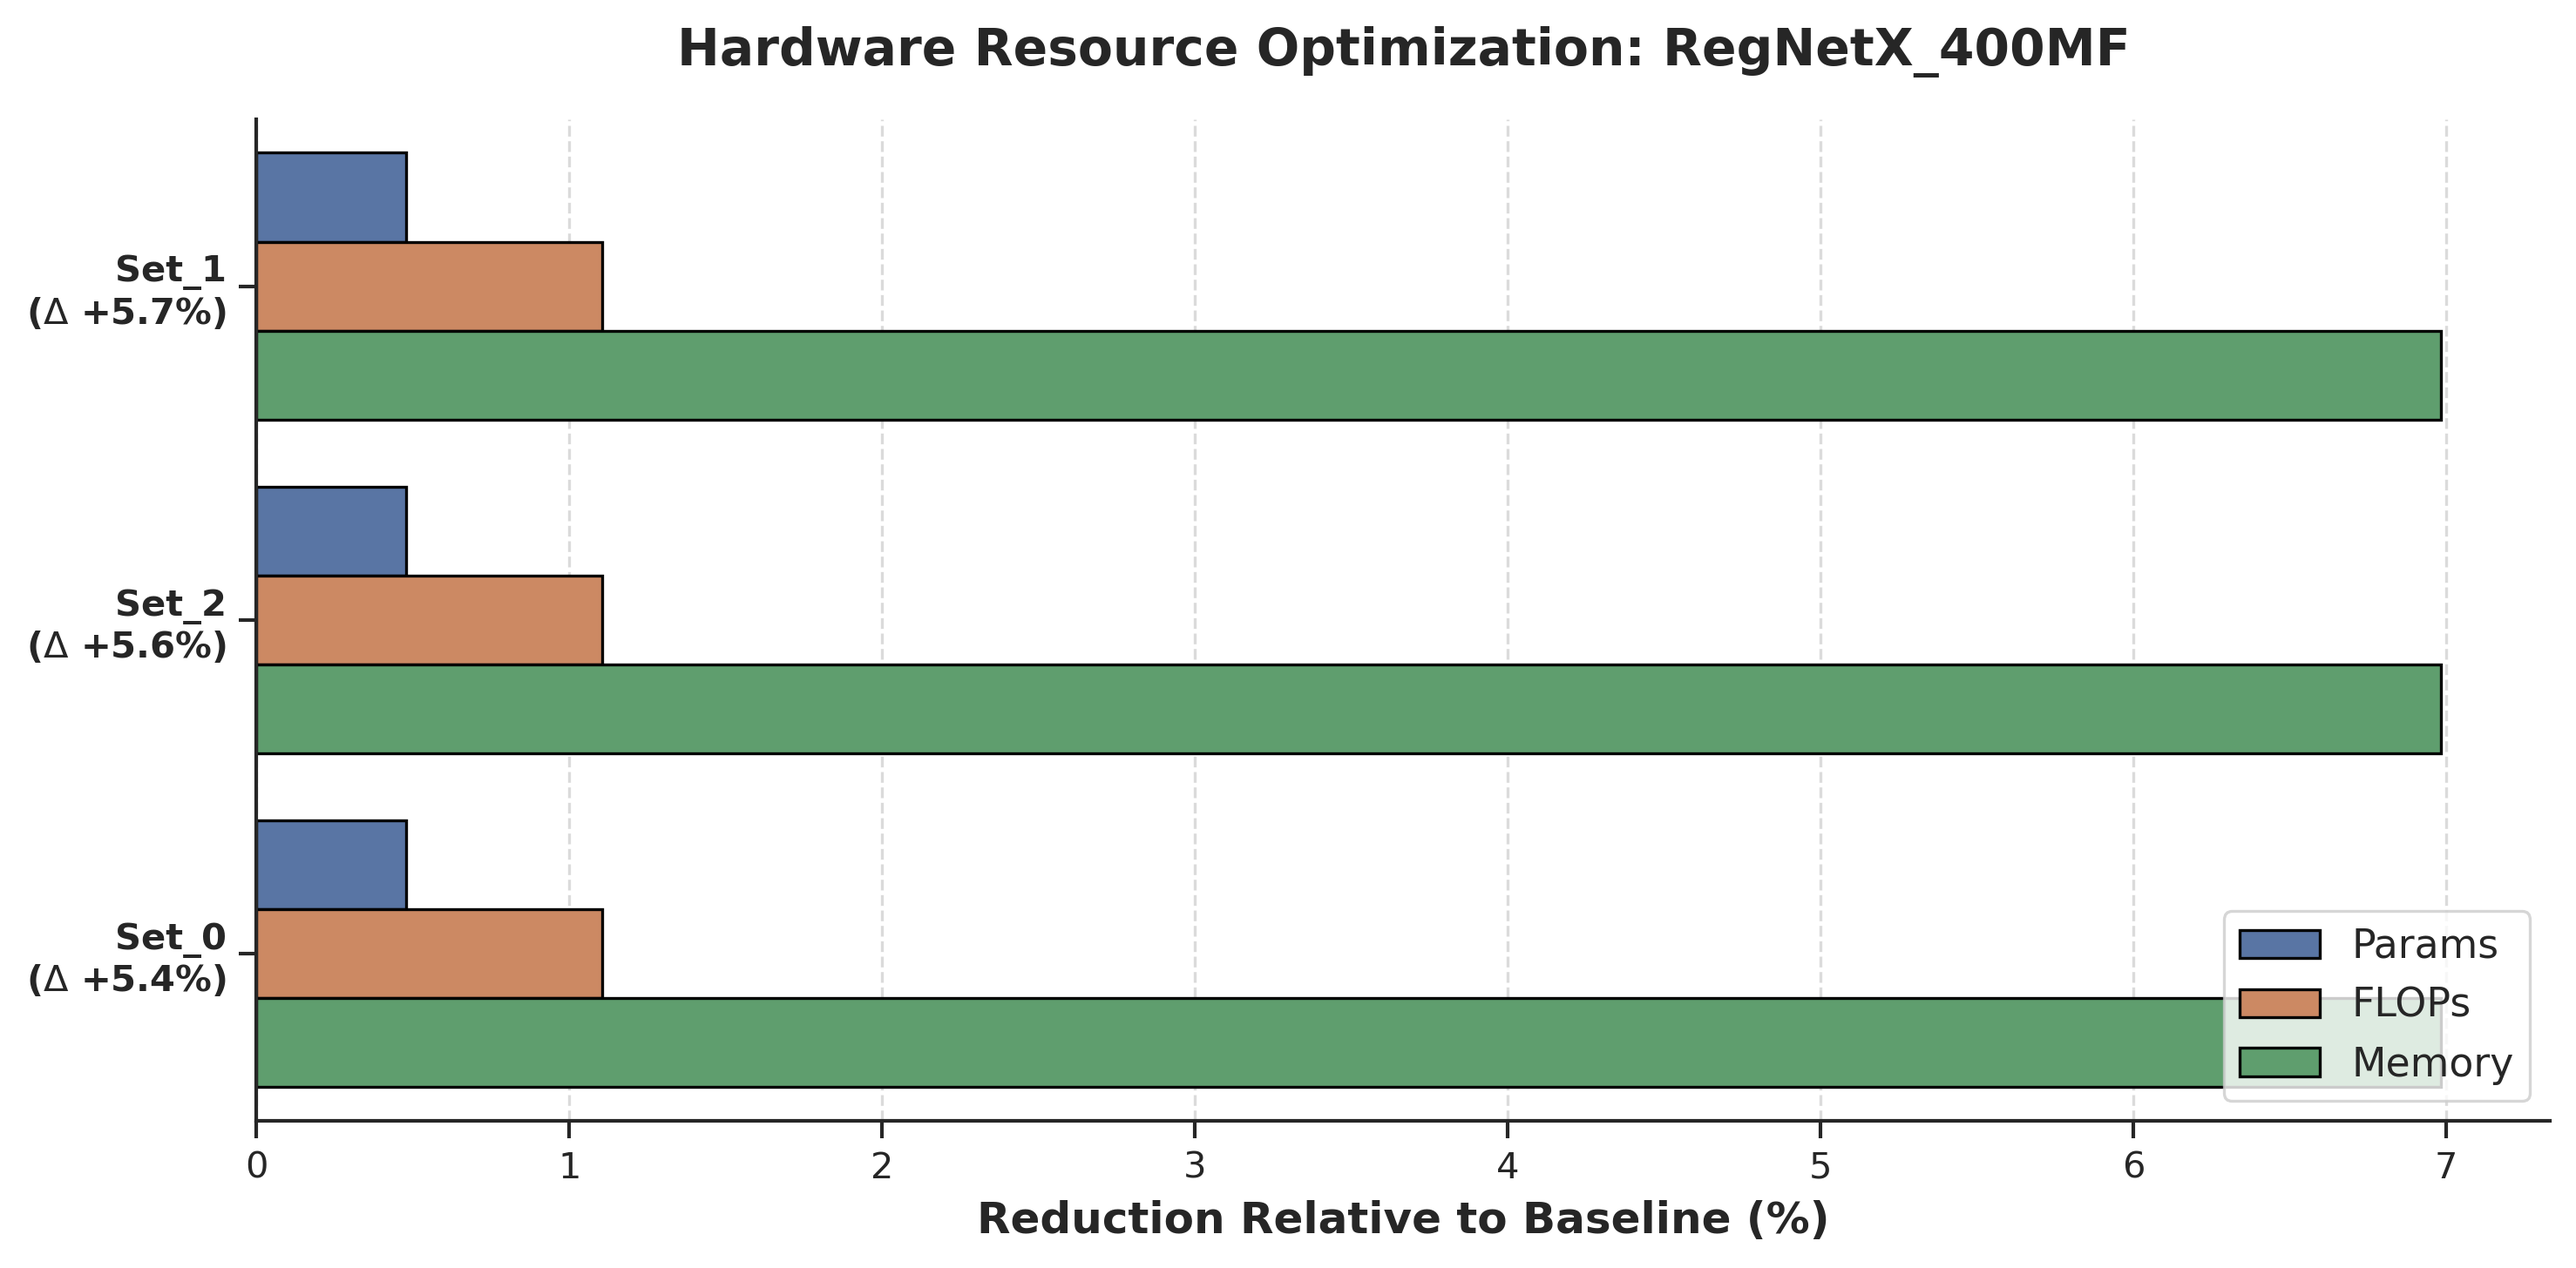
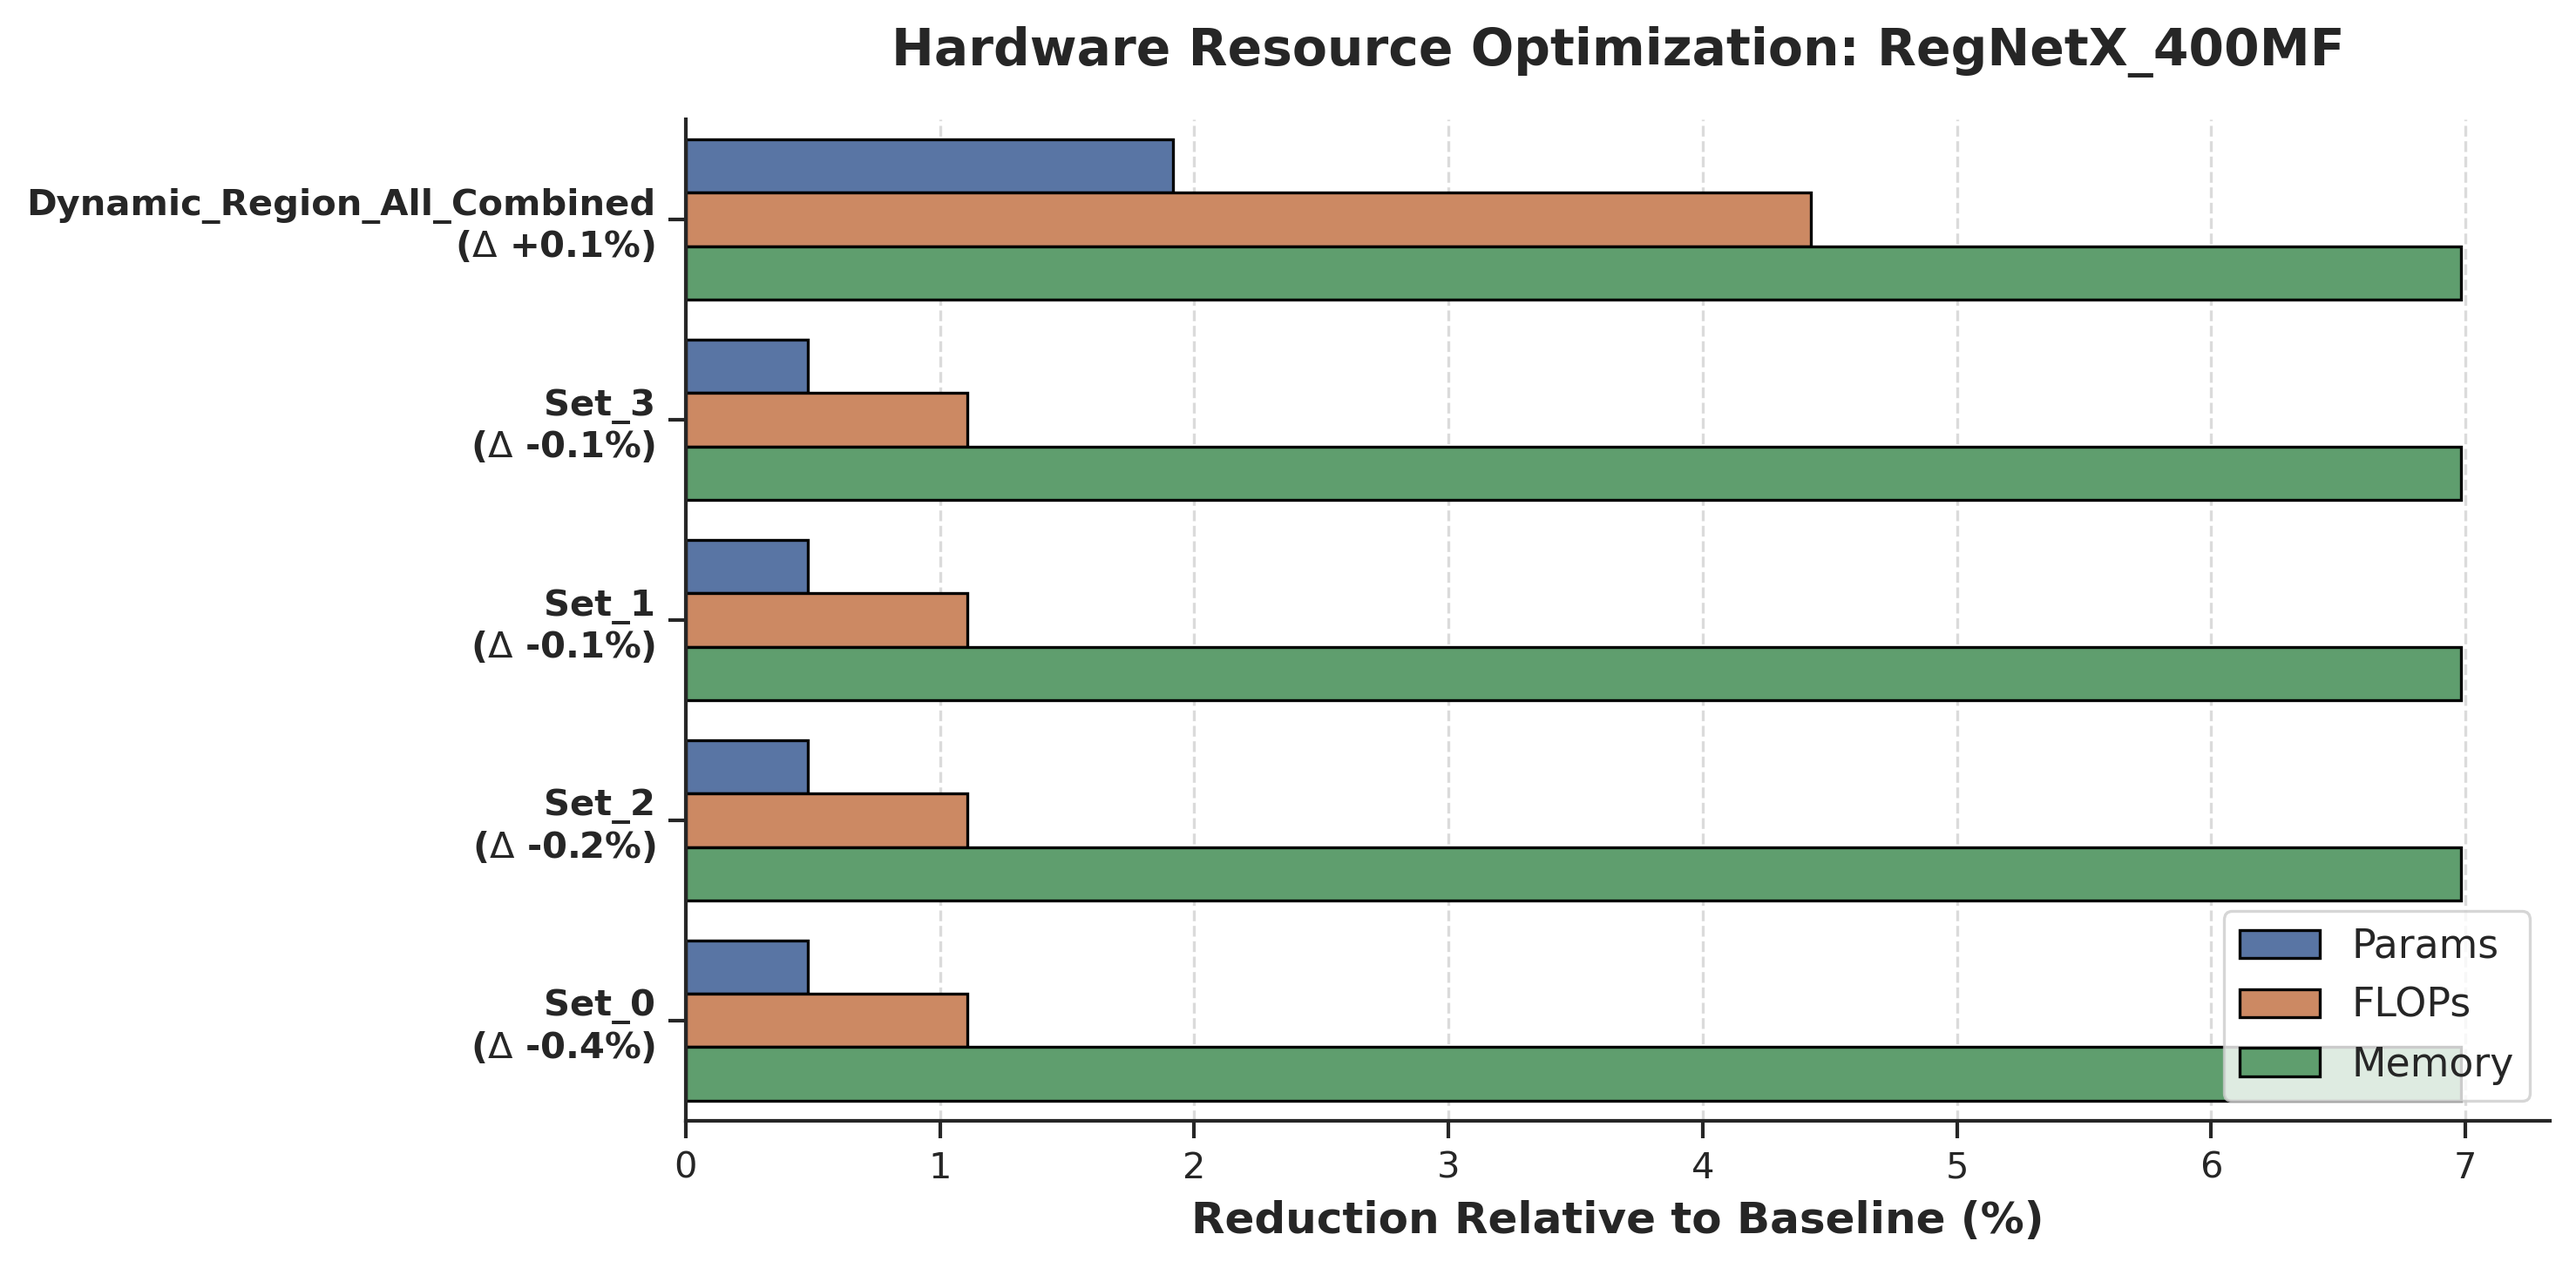
ip

diff --git a/manuscript/Tranfer/figures_ep100_pre500/hardware_efficiency/RegNetX_400MF_cifar100__all_candidates.tex b/manuscript/Tranfer/figures_ep100_pre500/hardware_efficiency/RegNetX_400MF_cifar100__all_candidates.tex
@@ -2,8 +2,10 @@
 \toprule
 Candidate Block & Delta Acc (%) & Params Red. (%) & FLOPs Red. (%) & Memory Red. (%) \\
 \midrule
-Set_1 & 5.68 & 0.48 & 1.11 & 6.98 \\
-Set_2 & 5.61 & 0.48 & 1.11 & 6.98 \\
-Set_0 & 5.36 & 0.48 & 1.11 & 6.98 \\
+Dynamic_Region_All_Combined & 0.11 & 1.92 & 4.42 & 6.98 \\
+Set_3 & -0.09 & 0.48 & 1.11 & 6.98 \\
+Set_1 & -0.09 & 0.48 & 1.11 & 6.98 \\
+Set_2 & -0.17 & 0.48 & 1.11 & 6.98 \\
+Set_0 & -0.42 & 0.48 & 1.11 & 6.98 \\
 \bottomrule
 \end{tabular}
